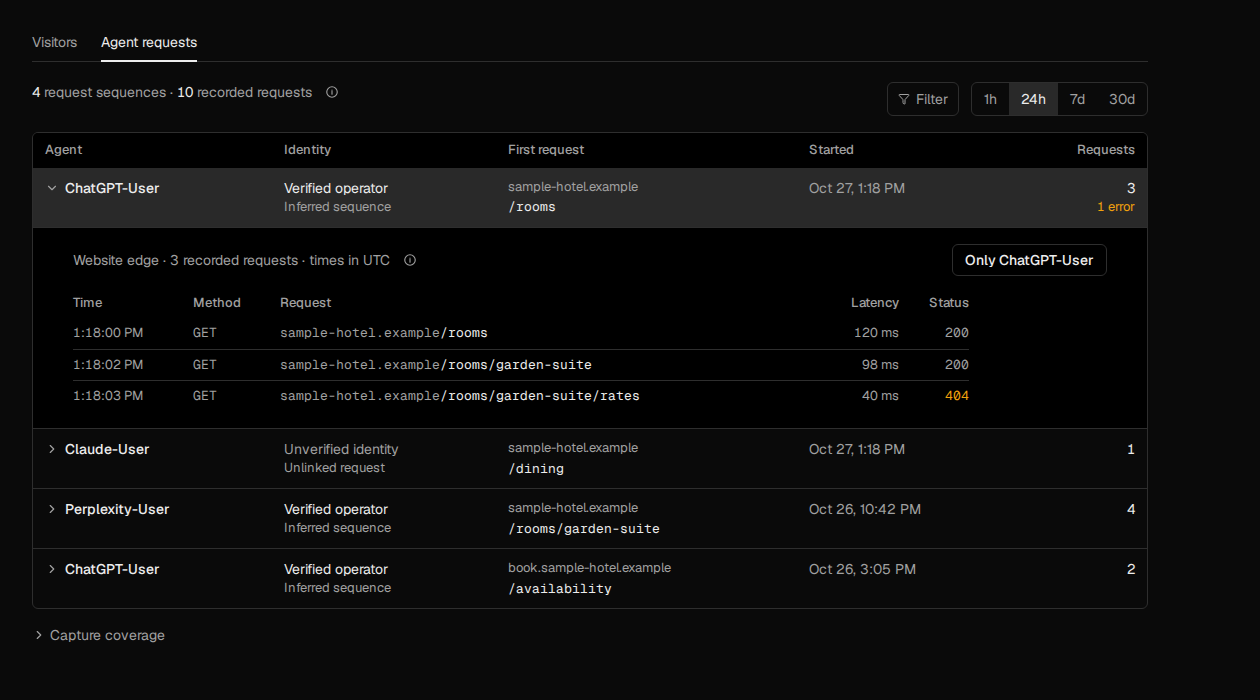
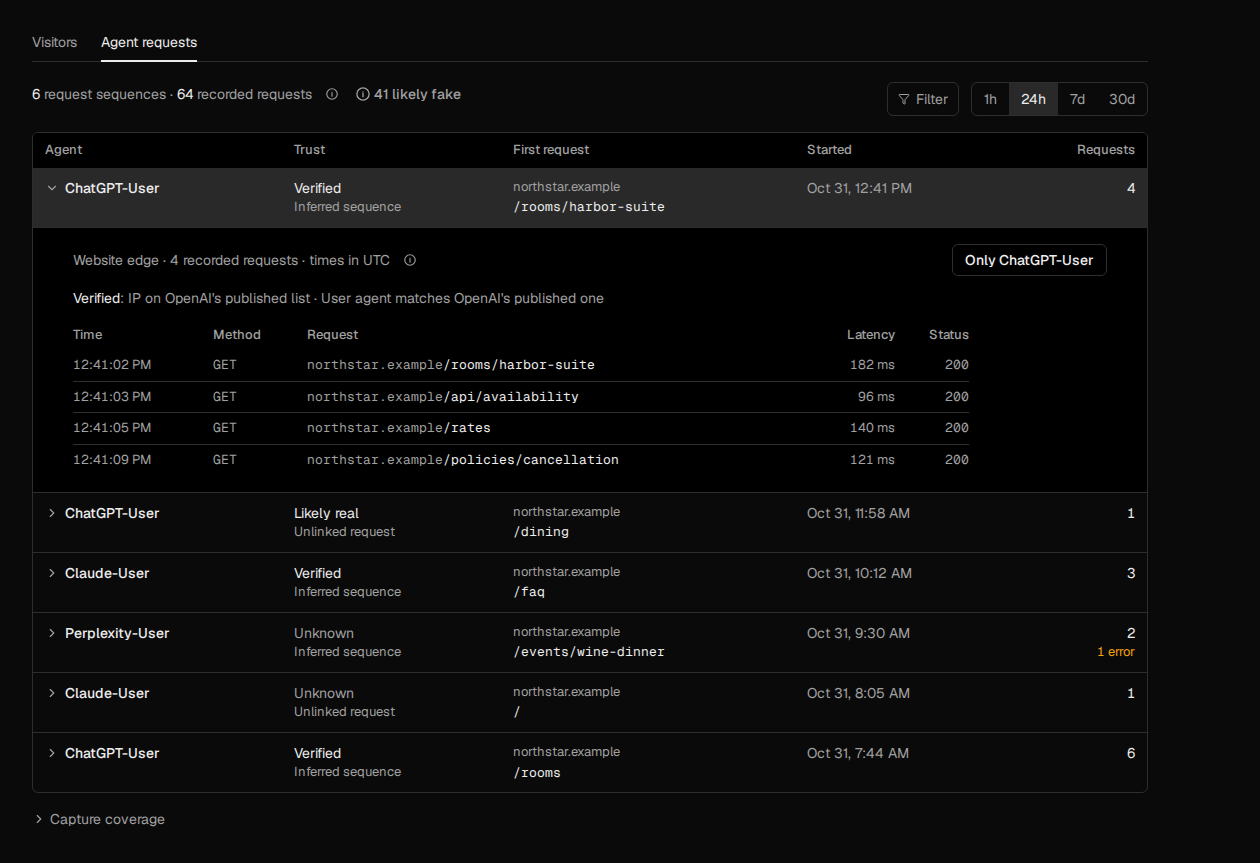
chore(journeys): agent trust screenshot, enum constant, review fixes

diff --git a/packages/integration-traffic/src/classifier.ts b/packages/integration-traffic/src/classifier.ts
@@ -1,5 +1,6 @@
 import type { AiReferralTrafficClass, NormalizedTrafficRequest } from '@canonry/canonry-contracts'
 import {
+  AgentTrustReasons,
   AiReferralTrafficClasses,
   classifyAiReferralTrafficClass,
   hostMatchesDomain,
@@ -216,7 +217,7 @@ export function classifyAiUserFetches(
     const members = clients.get(client)
     if (members) members.push(event)
     else clients.set(client, [event])
-    if (fetch.trustReasons.includes('scanner-path')) scanningClients.add(client)
+    if (fetch.trustReasons.includes(AgentTrustReasons['scanner-path'])) scanningClients.add(client)
   }
   for (const client of scanningClients) {
     for (const event of clients.get(client) ?? []) {

diff --git a/packages/api-routes/src/likely-fake-agent-rollup.ts b/packages/api-routes/src/likely-fake-agent-rollup.ts
@@ -20,7 +20,7 @@ export interface LikelyFakeAgentBucket {
 export function addLikelyFakeAgentHits(
   db: RollupDb,
   input: { projectId: string; sourceId: string; buckets: readonly LikelyFakeAgentBucket[]; now: string },
-): number {
+): void {
   for (const bucket of input.buckets) {
     db.insert(aiUserFetchLikelyFakeHourly)
       .values({
@@ -50,7 +50,6 @@ export function addLikelyFakeAgentHits(
       })
       .run()
   }
-  return input.buckets.length
 }
 
 /** Replace-mode backfill clears this window with the other hourly rollups. */

diff --git a/docs/images/agent-journeys/README.md b/docs/images/agent-journeys/README.md
@@ -6,10 +6,14 @@ compiled stylesheet. No client traffic or provider calls.
 | View | Image |
 | --- | --- |
 | Visitors: list, selected visitor's visits in time order, second visit open | [visitors-desktop.png](visitors-desktop.png) |
-| Agent requests: one sequence expanded | [agent-requests-desktop.png](agent-requests-desktop.png) |
+| Agent requests: trust per sequence, likely fake count, one sequence expanded with its trust reasons | [agent-requests-desktop.png](agent-requests-desktop.png) |
 
 The Journeys tab sits with the other project tabs. Visits read left to right
 in time order; the marker shape and its label carry the entry class, `//` marks
 a new day, and requests that are not GET or HEAD are printed as recorded. The
 visit table shows pages and non-GET requests from the API's `events=pages`
 filter, with every request one click away.
+
+Agent requests show each sequence's trust level: Verified (IP on the company's
+published list), Likely real or Unknown. Likely fake requests are never listed;
+the API's count sits beside the totals with an explanation in its tooltip.
